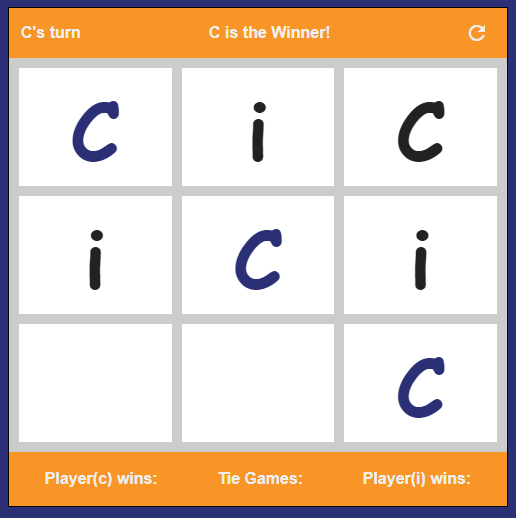
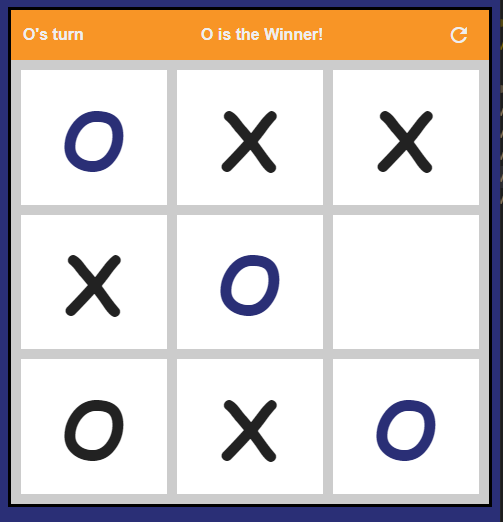
finished iCivics TicTacToe game

diff --git a/css/main.css b/css/main.css
@@ -10,7 +10,7 @@ body {
   }
 
 #app {
-    border: 1px solid black;
+    border: 3px solid black;
     width: 500px;
     height: 500px;
     font-family: sans-serif;
@@ -48,37 +48,6 @@ body {
     background: none;
     cursor: pointer;
 }
-
-.footer {
-    display: flex;
-    align-items: center;
-    background: #f89526;
-    padding: 6px;
-    
-}
-
-.footer > * {
-    color: #eeeeee;
-    flex-grow: 1;
-    text-align: center;
-    display: flex;
-    align-items: center;
-    justify-content: center;
-    padding: 12px;
-}
-
-.footer__c {
- 
-}
-
-.footer__t {
-   
-}
-
-.footer__i {
- 
-}
-
 
 .board {
     display: grid;

diff --git a/js/Game.js b/js/Game.js
@@ -1,13 +1,13 @@
 // what happens when you start a new game of tic tac toe
 export default class Game {
     constructor() {
-        this.turn = "C";
+        this.turn = "X";
         this.board = new Array(9).fill(null);
     }
 
 // toogles turn of game
     nextTurn() {
-        this.turn = this.turn === "C" ? "i" : "C";
+        this.turn = this.turn === "X" ? "O" : "X";
     }
 
     makeMove(i) {
@@ -39,6 +39,7 @@ export default class Game {
             [2, 4, 6]
         ];
 
+//checking for winning combination
         for (const combination of winningCombinations) {
             const [a, b, c] = combination;
 

diff --git a/js/GameView.js b/js/GameView.js
@@ -20,12 +20,6 @@ export default class GameView {
                 <div class="board__tile" data-index="7"></div>
                 <div class="board__tile" data-index="8"></div>
             </div>
-            <div class="footer">
-                <div class="footer__c">Player(c) wins:</div>
-                <div class="footer__t">Tie Games:</div>
-                <div class="footer__i">Player(i) wins:</div>
-            </div
-
         `;
 
         this.onTileClick = undefined;
@@ -86,3 +80,5 @@ export default class GameView {
         }
     }
 }
+
+    

diff --git a/index.html b/index.html
@@ -9,6 +9,7 @@
     <link href="https://fonts.googleapis.com/icon?family=Material+Icons" rel="stylesheet">
 </head>
 <body>
+    <!-- main container for application -->
     <div id="app"></div>
     <script src="./js/main.js" type="module"></script>
 </body>

diff --git a/js/main.js b/js/main.js
@@ -5,7 +5,6 @@ import GameView from "./GameView.js";
 let game = new Game();
 let gameView = new GameView(document.getElementById("app"));
 
-
 // define functions
 gameView.onTileClick = function (i) {
     game.makeMove(i);

diff --git a/README.md b/README.md
@@ -16,24 +16,32 @@ The program should:
 You can submit your program in any language you choose, be it Java, Javascript, Php, Python, or another language.  Include a simple explanation of your strategy.
 
 
-## functions / additional features 
+## Functions & Features
 
-* instead of using X's & O's going with the iCivics theme and using C's & i's.
-* refresh board feature using google icons 
-* score tracker updating scores of player(c), player(i) & tie games.
+* Game alternates active players
+* Active player identified on the page (The O or X is shown, depending on whose turn it is)
+* Games ends if player has 3 symbols in a row, or the board is full and no winner has been declared
+* Live Server extention for a development server to view application and automatically refresh when making changes.
+
+
+## Strategy 
+
+* Tic Tac Toe game using HTML / CSS / Javascript. Building simple app using mainly vanilla Javscript with no frameworks and taking advantage of ES6.
+* Modules / template strings / arrow functions / events / CSS flex box / CSS grid / MVC pattern / block element modifier
 
 ## Live Server Port / Game Board 
 
 * Click link to play game! : http://127.0.0.1:5501/index.html
 
-![iCivicsboard](https://user-images.githubusercontent.com/43917280/99006492-667e3000-24f7-11eb-842d-0d8e7f070c2f.PNG)
+![iCivicsboard](https://user-images.githubusercontent.com/43917280/99128030-95aba480-25be-11eb-9410-8e4a9aba7d20.PNG)
 
 
 ## Support and contact details
 
-* cell phone: (503)490-5479 
-* email: arashiwalker@gmail.com 
-* Portfolio: https://arsahiwalker.com 
+* Cell phone: (503) 490-5479 
+* Email: arashiwalker@gmail.com 
+* Linkedin: https://www.linkedin.com/in/arashi-walker-3b9272182/
+* Portfolio: https://arashiwalker.com 
 
 ## Technologies Used
 
